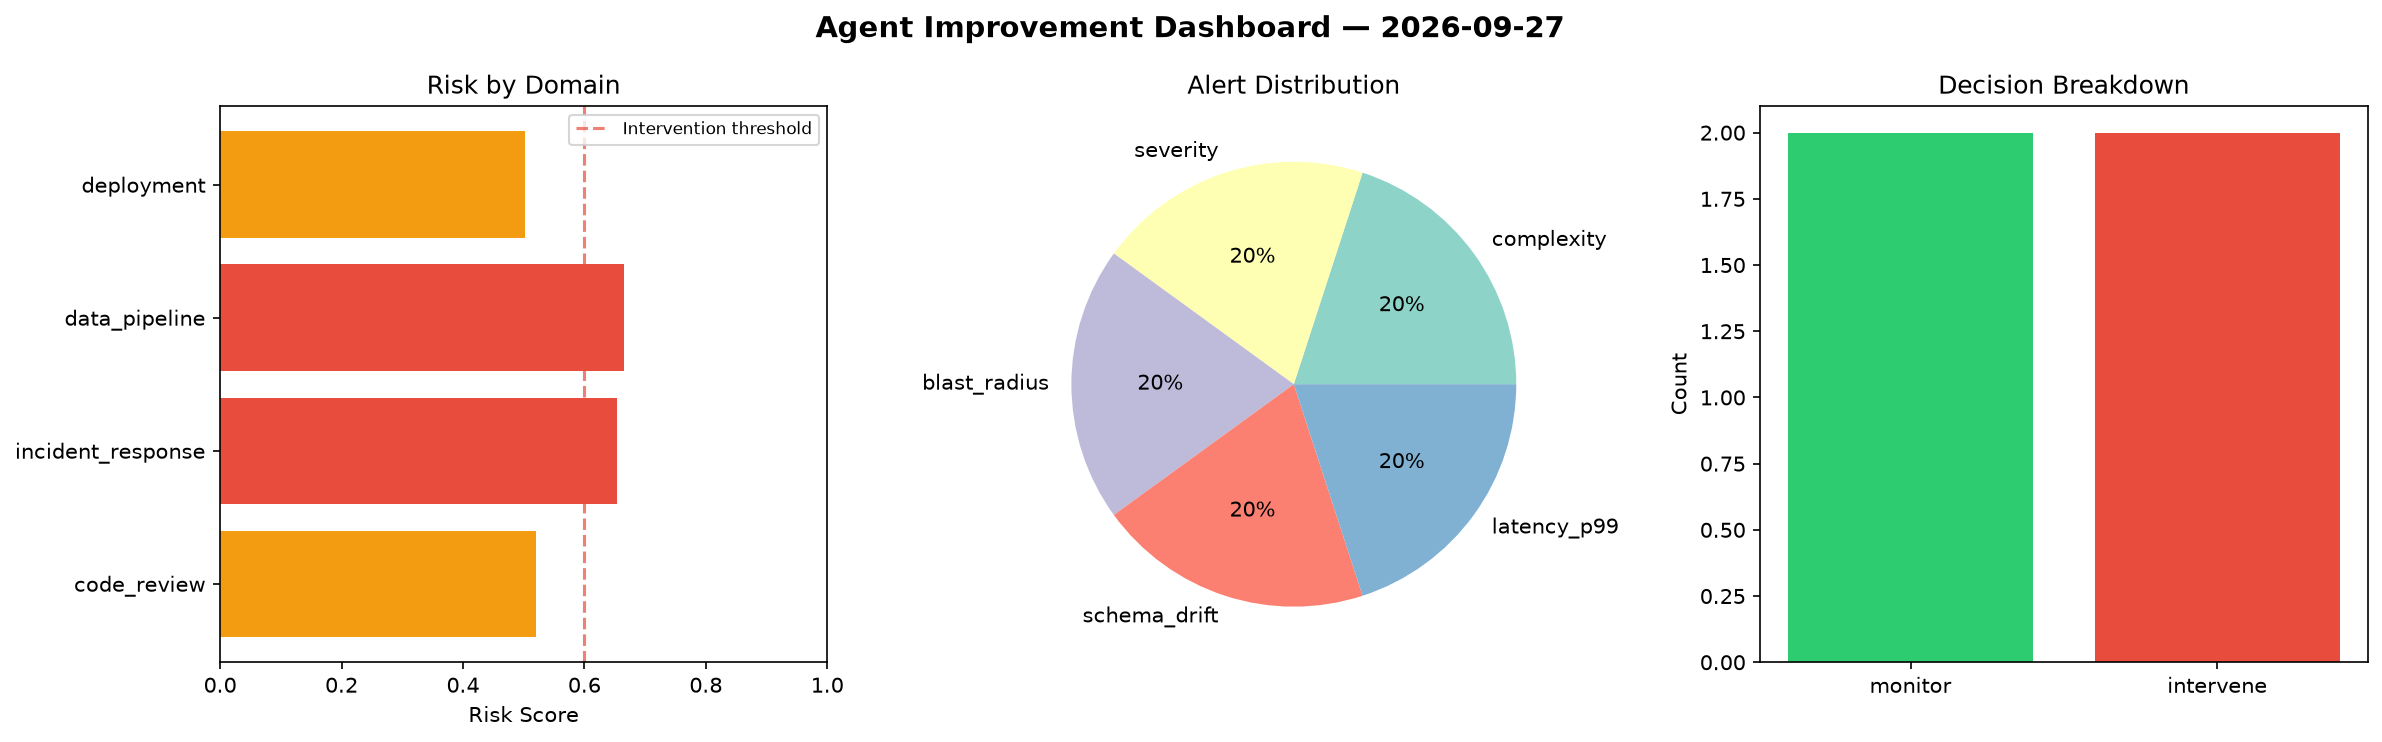
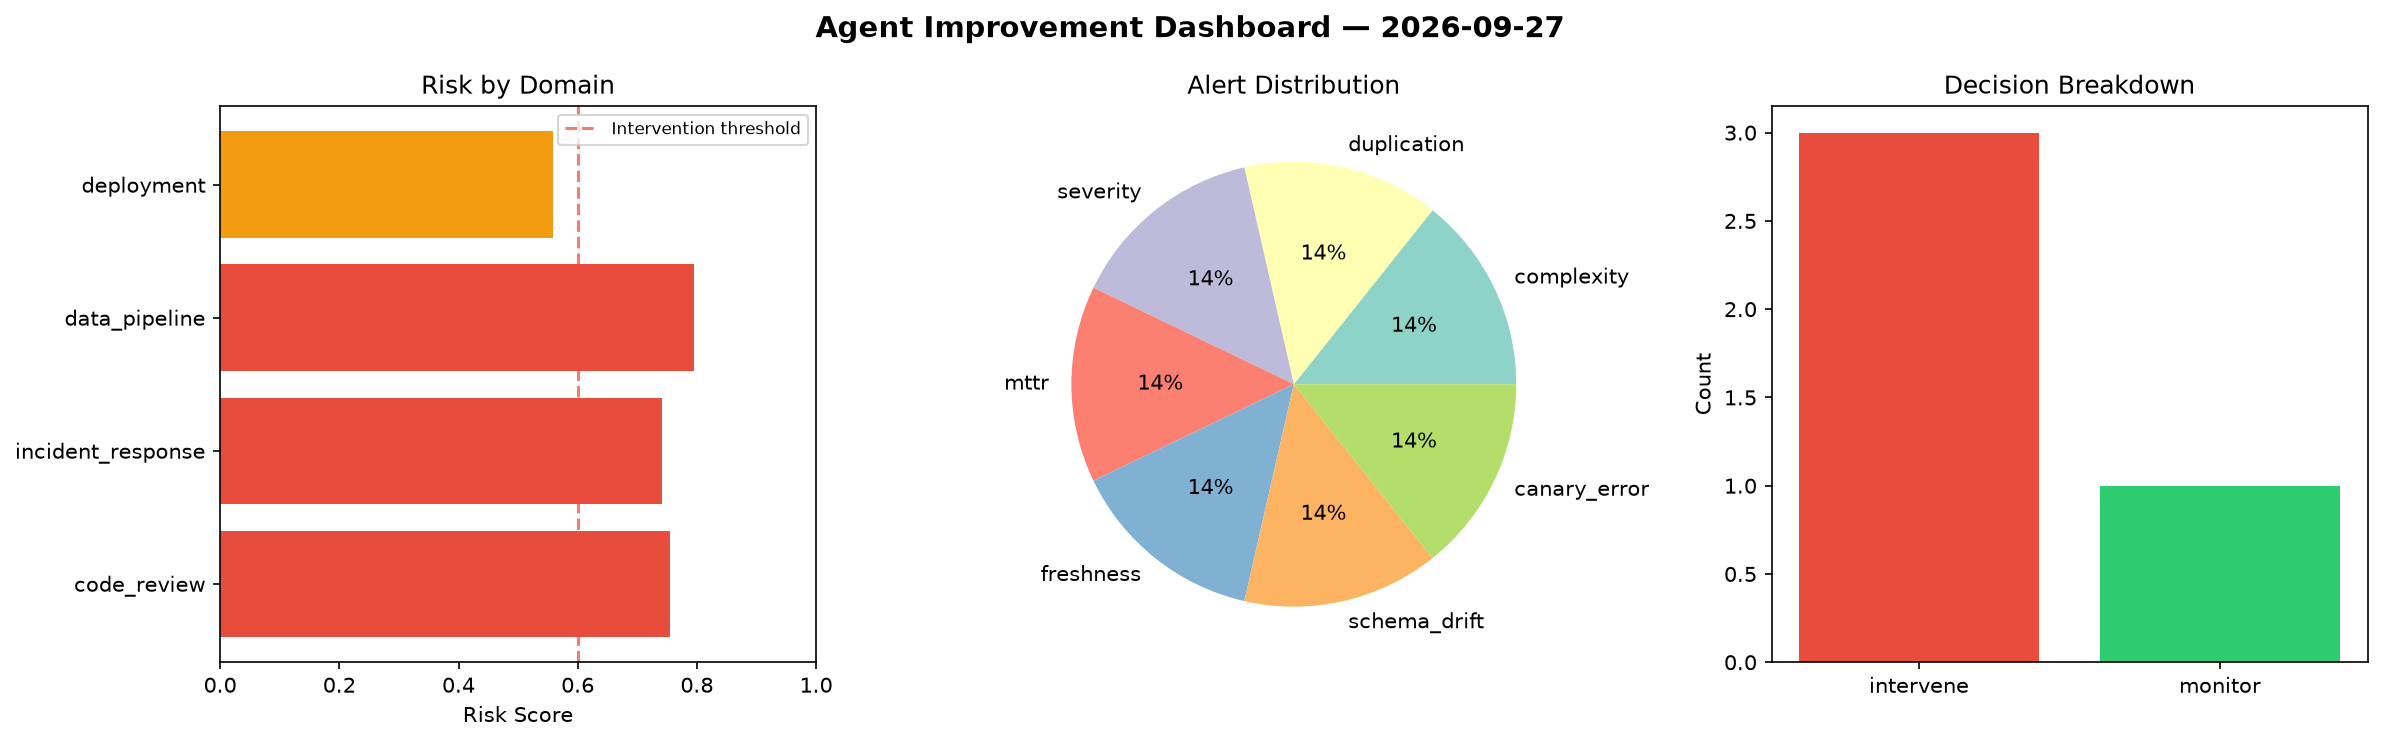
agent-improvement: daily cycle 2026-09-27T13:58

diff --git a/logs/2026-09-27.md b/logs/2026-09-27.md
@@ -1,6 +1,6 @@
 # Agent Improvement Report — 2026-09-27
 
-**Cycle ID:** `cbf11aec` | **Avg Risk:** 0.5849 | **Interventions:** 2/4
+**Cycle ID:** `18aea538` | **Avg Risk:** 0.7128 | **Interventions:** 3/4
 
 ![Dashboard](2026-09-27_dashboard.png)
 
@@ -10,18 +10,18 @@
 
 | Domain | Risk Score | Decision | Alerts |
 |--------|-----------|----------|--------|
-| code_review | 0.5197 | monitor | complexity |
-| incident_response | 0.6529 | intervene | severity, blast_radius |
-| data_pipeline | 0.6647 | intervene | schema_drift |
-| deployment | 0.5025 | monitor | latency_p99 |
+| code_review | 0.7555 | intervene | complexity, duplication |
+| incident_response | 0.7419 | intervene | severity, mttr |
+| data_pipeline | 0.7954 | intervene | freshness, schema_drift |
+| deployment | 0.5585 | monitor | canary_error |
 
 ## Delta vs Yesterday
 
 | Domain | Today | Yesterday | Change |
 |--------|-------|-----------|--------|
-| code_review | 0.5197 | 0.421 | 📈 23.4% |
-| incident_response | 0.6529 | 0.4666 | 📈 39.9% |
-| data_pipeline | 0.6647 | 0.7272 | 📉 -8.6% |
-| deployment | 0.5025 | 0.4073 | 📈 23.4% |
+| code_review | 0.7555 | 0.421 | 📈 79.5% |
+| incident_response | 0.7419 | 0.4666 | 📈 59.0% |
+| data_pipeline | 0.7954 | 0.7272 | 📈 9.4% |
+| deployment | 0.5585 | 0.4073 | 📈 37.1% |
 
 **Refinement:** `{'adjustment': 'maintain', 'trend': 'improving', 'window': 4}`
